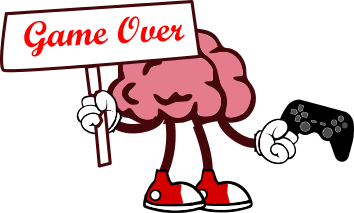
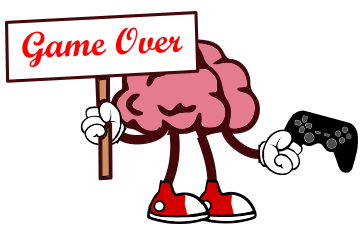
[FRONT] Sprites de personaje actualizados (mismas dimensiones) + ajuste modal

Changed region(s): [[0.0, 0.0, 1.0, 1.0], [0.5593, 0.6479, 0.5904, 0.7042]]

diff --git a/frontend/src/components/ui/SlotMachineMulti.jsx b/frontend/src/components/ui/SlotMachineMulti.jsx
@@ -2,6 +2,8 @@
 import React, { useState, useContext, useEffect } from 'react';
 import { useNavigate } from 'react-router-dom';
 
+import BrainCharacter from './BrainCharacter';
+
 /** Context API **/
 import { useRole } from '../../contextAPI/AuthContext'
 import { SocketContext } from '../../contextAPI/SocketContext';
@@ -22,11 +24,7 @@ const SlotMachineMulti = ({ ruletaGame, finalSlot1, finalSlot2, finalSlot3, idGa
 
     const userObj = JSON.parse(localStorage.getItem("userObj"));
 
-    useEffect(() => {
-        setTimeout(() => {
-            spin();
-        }, 1000);
-    }, []);
+    const [characterSprite, setCharacterSprite] = useState('thinking');
 
     const gameModeIcons = {
         GP: "🔤",
@@ -69,6 +67,12 @@ const SlotMachineMulti = ({ ruletaGame, finalSlot1, finalSlot2, finalSlot3, idGa
     const [results, setResults] = useState([]); // Estado para almacenar los resultados de los slots
     const spinDuration = 1500;
 
+    useEffect(() => {
+        setTimeout(() => {
+            spin();
+        }, 1000);
+    }, []);
+
     // Función para hacer girar los slots
     const spin = () => {
         setIsSpinning(true); // Establece el estado de giro a verdadero
@@ -85,6 +89,8 @@ const SlotMachineMulti = ({ ruletaGame, finalSlot1, finalSlot2, finalSlot3, idGa
         setTimeout(() => {
             clearInterval(spinInterval); // Detiene el intervalo de giro
 
+            setCharacterSprite('start');
+            
             // Se asignan los  valores hardcodeados
             setSlot1(getEmojiByKey(finalSlot1)); // Establece el valor final del slot 1
             setSlot2(getEmojiByKey(finalSlot2)); // Establece el valor final del slot 2
@@ -136,6 +142,7 @@ const SlotMachineMulti = ({ ruletaGame, finalSlot1, finalSlot2, finalSlot3, idGa
 
     return (
         <div className="slot-machine-container"> {/* Contenedor principal de la máquina tragamonedas */}
+            <BrainCharacter spriteKey={characterSprite} hideDialogue={true}/>
             <div className="slot-machine"> {/* Contenedor de los slots */}
 
                 {/* Tercer slot */}

diff --git a/frontend/src/components/ui/SlotMachine.jsx b/frontend/src/components/ui/SlotMachine.jsx
@@ -2,6 +2,8 @@
 import React, { useState, useContext, useEffect } from 'react';
 import { useNavigate } from 'react-router-dom';
 
+import BrainCharacter from './BrainCharacter';
+
 /** Context API **/
 import { LoadGameContext } from '../../contextAPI/LoadGameContext';
 import { useRole } from '../../contextAPI/AuthContext'
@@ -17,12 +19,8 @@ const SlotMachine = () => {
     const { userId } = useRole();  // Access the setRole function from the context
 
     const navigate = useNavigate();
-
-    useEffect(() => {
-        setTimeout(() => {
-            spin();
-        }, 1000);
-    }, []);
+    
+    const [characterSprite, setCharacterSprite] = useState('thinking');
 
     const gameModeIcons = {
         GP: "🔤",
@@ -70,6 +68,12 @@ const SlotMachine = () => {
         return array[Math.floor(Math.random() * array.length)];
     };
 
+    useEffect(() => {
+        setTimeout(() => {
+            spin();
+        }, 1000);
+    }, []);
+
     // Función para hacer girar los slots
     const spin = () => {
         setIsSpinning(true); // Establece el estado de giro a verdadero
@@ -85,6 +89,8 @@ const SlotMachine = () => {
         // Detener el giro después de spinDuration
         setTimeout(() => {
             clearInterval(spinInterval); // Detiene el intervalo de giro
+
+            setCharacterSprite('start');
 
             // Selecciona el modo final para cada slot
             const finalSlot1 = getRandomItem(gameModes1);
@@ -140,6 +146,10 @@ const SlotMachine = () => {
 
     return (
         <div className="slot-machine-container"> {/* Contenedor principal de la máquina tragamonedas */}
+        <div style={{ width: '100%', display: 'flex', flexDirection: 'column', justifyContent: 'center', alignItems: 'center' }}>
+
+            <BrainCharacter spriteKey={characterSprite} hideDialogue={true}/>
+        </div>
             <div className="slot-machine"> {/* Contenedor de los slots */}
 
                 {/* Tercer slot */}

diff --git a/frontend/src/components/ui/BrainCharacter.jsx b/frontend/src/components/ui/BrainCharacter.jsx
@@ -3,6 +3,8 @@ import React from 'react';
 
 /** Sprites **/
 import idle from '../../assets/idle_brain.png'
+import thinking from '../../assets/thinking-brain.png'
+import startGame from '../../assets/start-game-brain.png'
 import finishGame from '../../assets/finish-game-brain.png'
 import correctAnswer from '../../assets/correct-answer-brain.png'
 import wrongAnswer from '../../assets/wrong-answer-brain.png'
@@ -24,6 +26,8 @@ import '../../styles/brain-character.css'
 const BrainCharacter = ({ rerenderKey, words = "", autoStart = false, hideDialogue = false, spriteKey = 'idle', width = 'auto' }) => {
     // Define available sprites
     const sprites = {
+        start: startGame,
+        thinking: thinking,
         idle: idle,
         hint: hint,
         correct: correctAnswer,
@@ -40,7 +44,7 @@ const BrainCharacter = ({ rerenderKey, words = "", autoStart = false, hideDialog
             {!hideDialogue && (
                 <ScaleTransition key={words}>
                 <div className="globe-hint-container">
-                        <img src={HintGlobe} alt="Globe" className="globe-hint-background" />
+                    <img src={HintGlobe} alt="Globe" className="globe-hint-background" />
                     <div className="globe-hint-text">
                         <Typewriter
                             options={{
@@ -60,7 +64,8 @@ const BrainCharacter = ({ rerenderKey, words = "", autoStart = false, hideDialog
                 </ScaleTransition>
             )}
             <HorizontalSlideTransition key={spriteKey}>
-                <img className="brain-character" src={currentSprite} alt="Brain Character" style={{width: `${width}`}} />
+            {/* style={{width: `${width}`}} */}
+                <img className="brain-character" src={currentSprite} alt="Brain Character"  />
             </HorizontalSlideTransition>
         </div>
     );

diff --git a/frontend/src/styles/custom-list.css b/frontend/src/styles/custom-list.css
@@ -1,5 +1,8 @@
 .list-wrapper {
     height: 100%;
+    box-sizing: border-box;
+    display: flex;
+    flex-direction: column; /* O row si quieres alinearlos horizontalmente */
 }
 
 .list-container {
@@ -7,12 +10,10 @@
     flex-direction: column; /*row*/
     justify-content: flex-start; /*center*/
     align-items: center;
-    width: 100%;
     margin-top: 15px;
     border: 2px solid var(--border-color);
     border-radius: 8px;
-    /* height: calc(45vh - 1rem); */
-    height: 80%;
+    height: calc(100dvh - 325px); /** 325px = Navbar + Main Game Layout Header + List Header**/
 }
 
 .list-header {
@@ -44,7 +45,8 @@
     align-items: center;
     /* margin: 10px; */
     transition: transform 0.25s, letter-spacing 0.25s;
-    height: 35px;
+    /* height: 35px; */
+    flex: 1;
     border-top: 2px solid var(--border-color);
     width: 100%;
     background: none;
@@ -56,7 +58,6 @@
     flex-direction: row-reverse;
     justify-content: center;
     align-items: center;
-    /* margin: 10px; */
     transition: transform 0.25s, letter-spacing 0.25s;
     height: 35px;
 }
@@ -76,23 +77,4 @@
 
 .list-external-footer button:hover{
     box-shadow: none !important;
-}
-
-/****** Responsive *****/
-
-@media (max-width: 1366px) {
-
-    .list-external-footer{
-        margin: 10px;
-    }
-
-    .list-body {
-        max-height: 220px;
-    }
-}
-
-@media (max-width: 450px) {
-    .list-body {        
-        max-height: 260px;
-    }
 }

diff --git a/frontend/src/views/GameMatchView.jsx b/frontend/src/views/GameMatchView.jsx
@@ -538,7 +538,8 @@ const GameMatchView = () => {
         return (
             <div style={{ width: '100%', display: 'flex', flexDirection: 'column', justifyContent: 'center', alignItems: 'center' }}>
                 <div className='final-game-resume'>
-                    <BrainCharacter spriteKey={currentCharacterSprite} hideDialogue={true} width={isMobile ? '80%' : isLargeScreen ? '100%' : '60%'} />
+                {/* width={isMobile ? '80%' : isLargeScreen ? '100%' : '60%'} */}
+                    <BrainCharacter spriteKey={currentCharacterSprite} hideDialogue={true}  />
                     <ScaleTransition>
                         <div className='final-game-resume-container' >
                             {finalGameResume}
@@ -568,7 +569,7 @@ const GameMatchView = () => {
                                     autoStart={isGameReady}
                                     words={characterDialogue}
                                     hideDialogue={!isGameReady}
-                                    width={isMobile ? '' : 'auto'}
+                                    //width={'100%'}
                                 />
                             </div>
                             {isDesignBreakpoint && <div style={{ display: 'flex', flexDirection: 'column', flexGrow: '1' }}>

diff --git a/frontend/src/styles/brain-character.css b/frontend/src/styles/brain-character.css
@@ -1,10 +1,11 @@
 .brain-character {
-    /* width: 80%; */
+    width: 100%;
     object-fit: contain;
 }
 
 .character-container {
     margin: 3%;
+    min-width: 300px;
 }
 
 /***** Hint Globe *****/
@@ -39,22 +40,20 @@
     position: absolute;
     top: 40%;
     left: 50%;
-    /* Center the text */
     transform: translate(-50%, -50%);
     color: black;
     font-size: clamp(1.2rem, 2vw, 1.6rem); /* Texto legible en cualquier pantalla */
     text-align: center;
     font-weight: bold;
-    /* Makes the text layer fit within the container width */
-    width: 90%;
-    /* Text layer above the background */
+    width: 70%;
     z-index: 2;
-    /* Allows text to wrap within the width */
     white-space: normal;
-    /* Ensures text breaks correctly */
     overflow-wrap: break-word;
 }
-
+/* 
+.Typewriter{
+    width: 80%;
+} */
 .globe-hint-img {
     position: absolute;
     top: 40%;
@@ -63,3 +62,18 @@
     height: 80px;
     z-index: 2;
 }
+
+@media (max-width: 650px) {
+    .character-container {
+        min-width: 250px;
+    }
+  }
+
+/** mobile **/
+
+@media (max-width: 450px) {
+    .character-container {
+        min-width: 200px;
+    }
+  }
+

diff --git a/frontend/src/styles/modal.css b/frontend/src/styles/modal.css
@@ -14,6 +14,7 @@
 .modal-content {
   background-color: var(--background-color);
   padding: 25px;
+  box-sizing: border-box;
   border: 2px solid var(--border-color);
   border-radius: 8px;
   width: 400px;
@@ -66,12 +67,12 @@
 
 @media (max-width: 1400px) and (max-height: 700px) {
   .modal-content {
-    height: 85%;
+    height: 70%;
   }
 
-  .modal-body {
+  /* .modal-body {
     max-height: 300px;
-  }
+  } */
 }
 
 @media (max-width: 450px) {
@@ -80,15 +81,5 @@
     width: 100vw;
     border: none;
     border-radius: 0;
-  }
-
-  .modal-body {
-    height: 70%;
-    margin-top: 5px;
-    display: flex;
-    flex-direction: column;
-    justify-content: center;
-    align-items: center;
-    width: 100%;
   }
 }

diff --git a/frontend/src/views/admin/GameMatchesManagement.jsx b/frontend/src/views/admin/GameMatchesManagement.jsx
@@ -86,7 +86,7 @@ const GameMatchesManagement = () => {
     };
 
     return (
-        <>
+        <div>
             <MainGameLayout
                 canGoBack={false}
                 hideLeftPanel={true}
@@ -109,7 +109,7 @@ const GameMatchesManagement = () => {
             <Modal showModal={isModalOpen} onConfirm={() => setIsModalOpen(!isModalOpen)} closeModal={() => setIsModalOpen(!isModalOpen)} title="Detalles" innerOutline={true}>
                 {renderListItemDetails(selectedItem)}
             </Modal >
-        </>
+        </div>
     );
 };
 

diff --git a/frontend/src/styles/main-game-layout.css b/frontend/src/styles/main-game-layout.css
@@ -38,6 +38,7 @@
     flex-direction: column;
     align-items: center;
     padding: 25px;
+    box-sizing: border-box;
     /* Allows each div to grow equally */
     /* flex-grow: 1; */
     /* flex-basis: 0; /*Ensures all divs start at the same width, ignoring content */

diff --git a/frontend/src/styles/index.css b/frontend/src/styles/index.css
@@ -319,8 +319,11 @@ fieldset {
   height: 100%;
 }
 
-.motion-div{
-  display: inline-block;
+.motion-div, .scale-transition-motion-div{
+  display: flex;
+  flex-direction: column;
+  justify-content: center;
+  align-items: center;
 }
 
 .game-resume-container{

diff --git a/frontend/src/styles/slot-machine.css b/frontend/src/styles/slot-machine.css
@@ -1,8 +1,6 @@
 .slot-machine-container {
   text-align: center;
   /* Centra el texto dentro del contenedor */
-  margin-top: 50px;
-  /* Espacio superior del contenedor */
 }
 
 .slot-machine {
